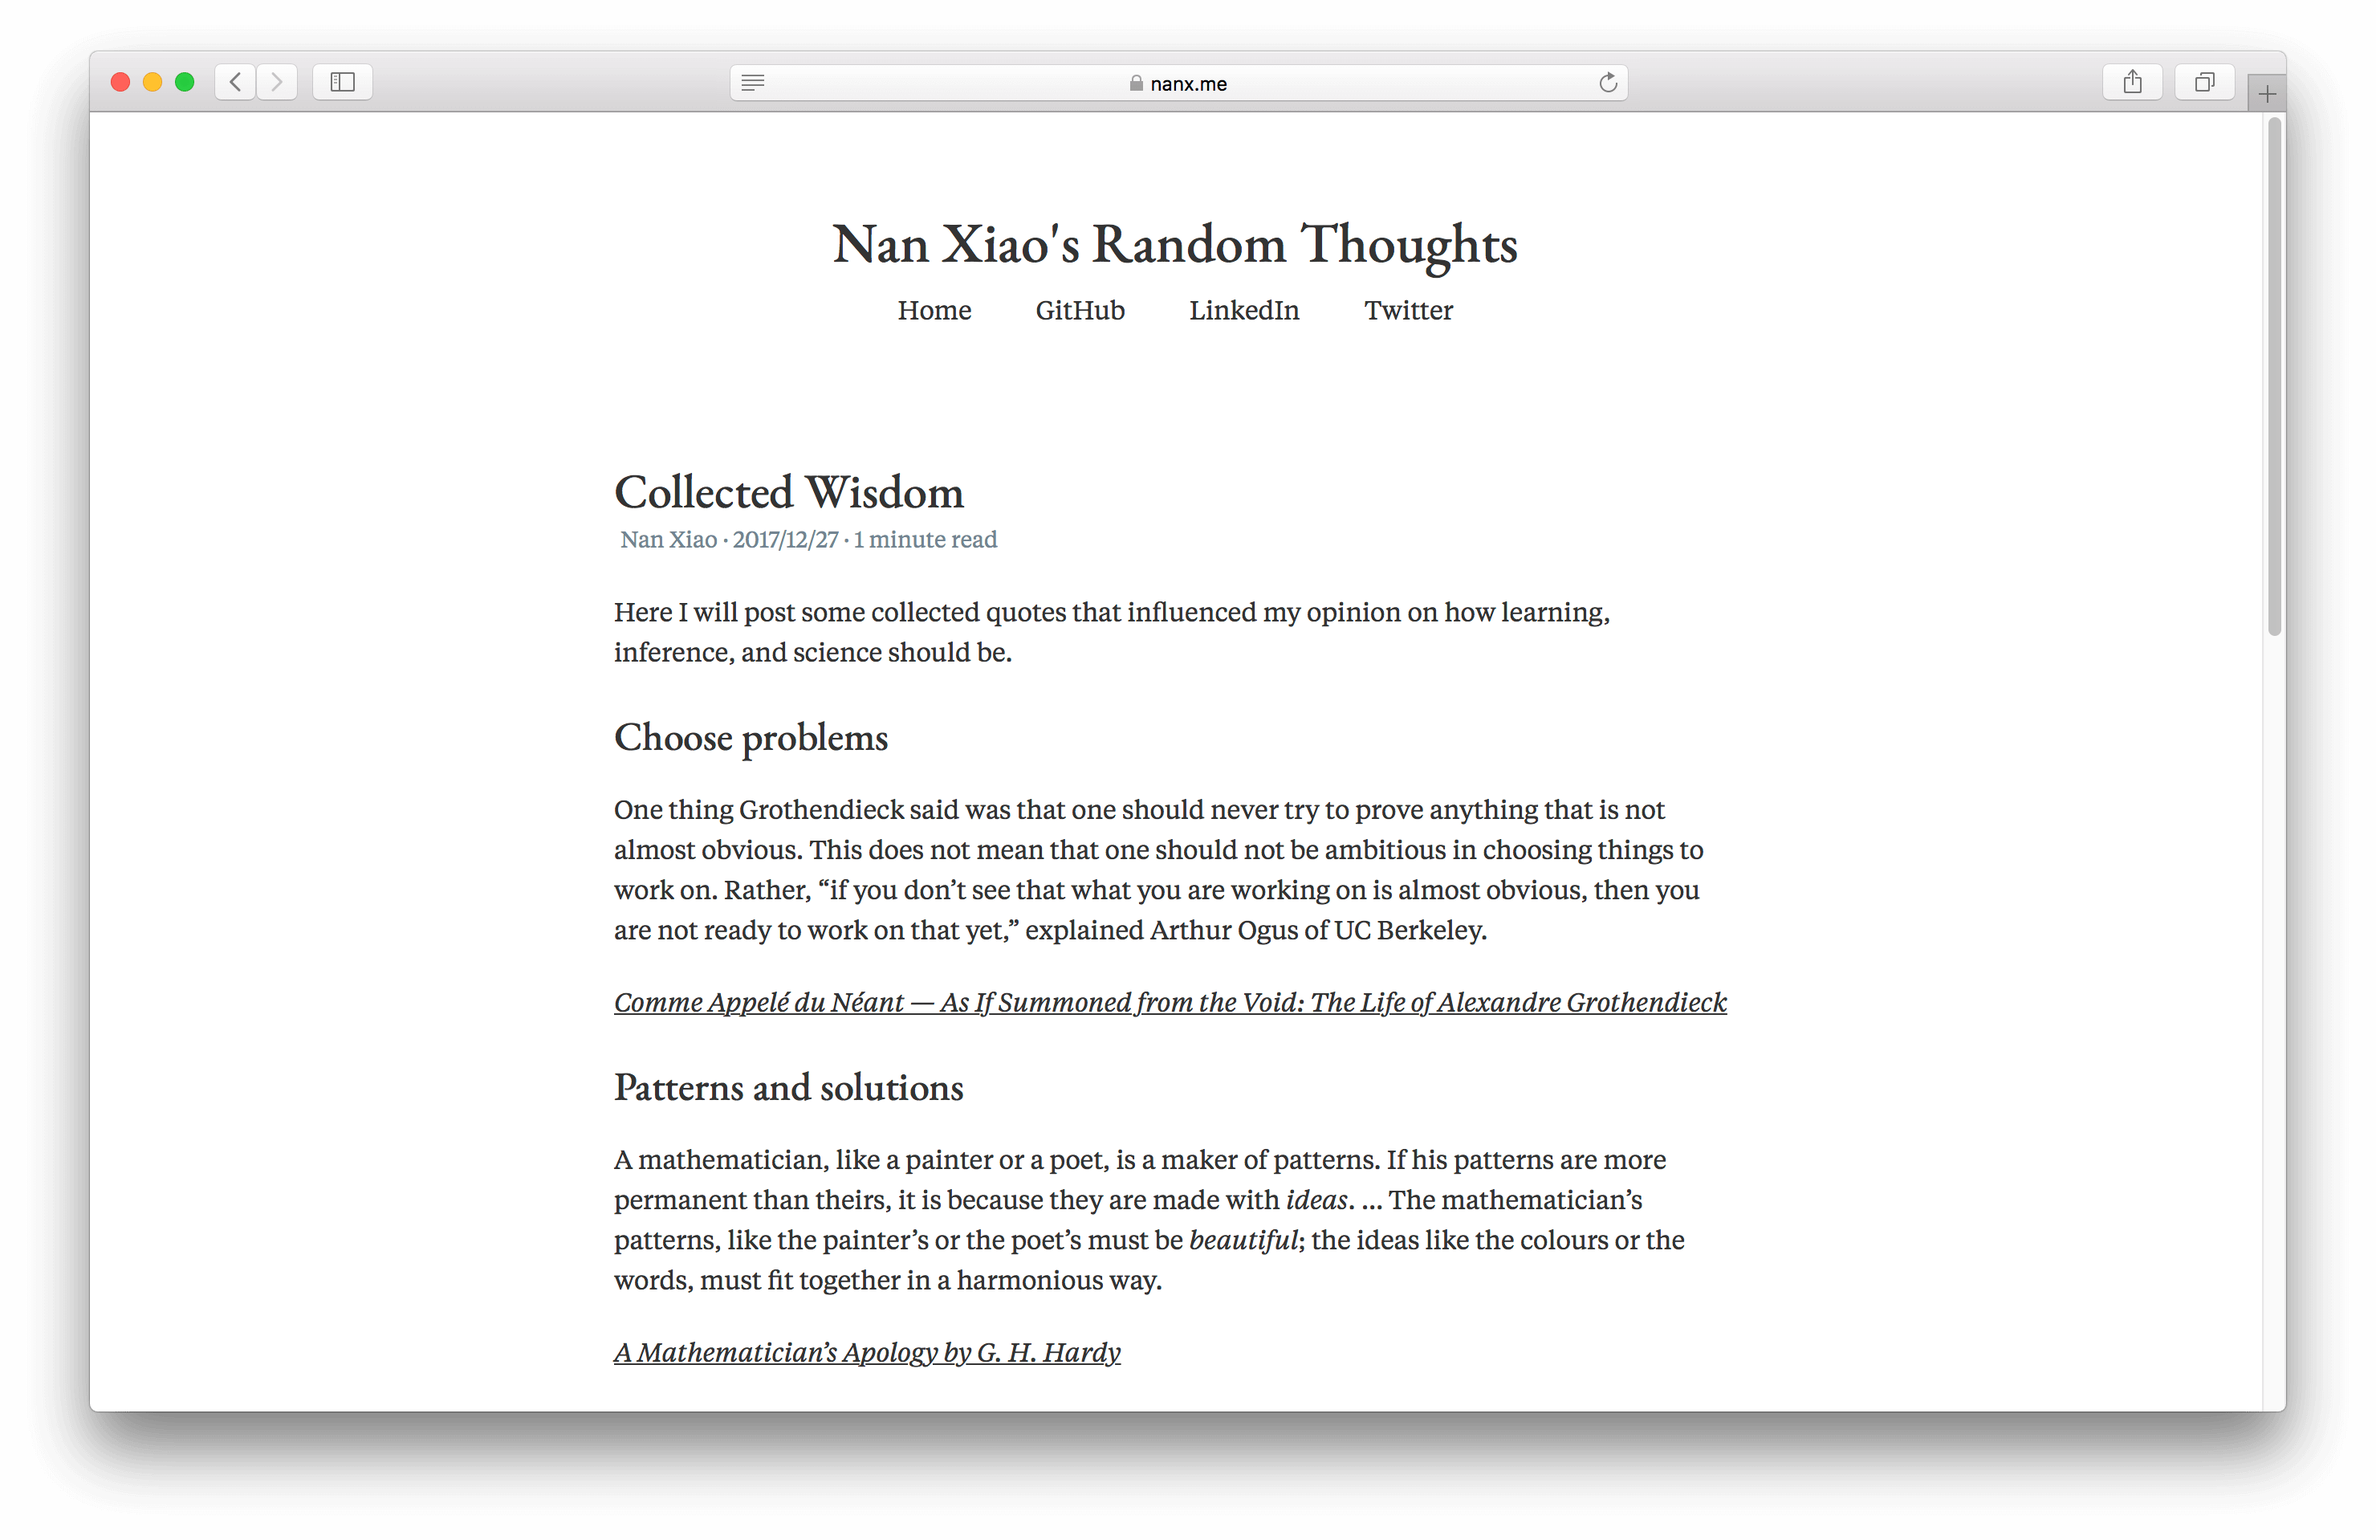
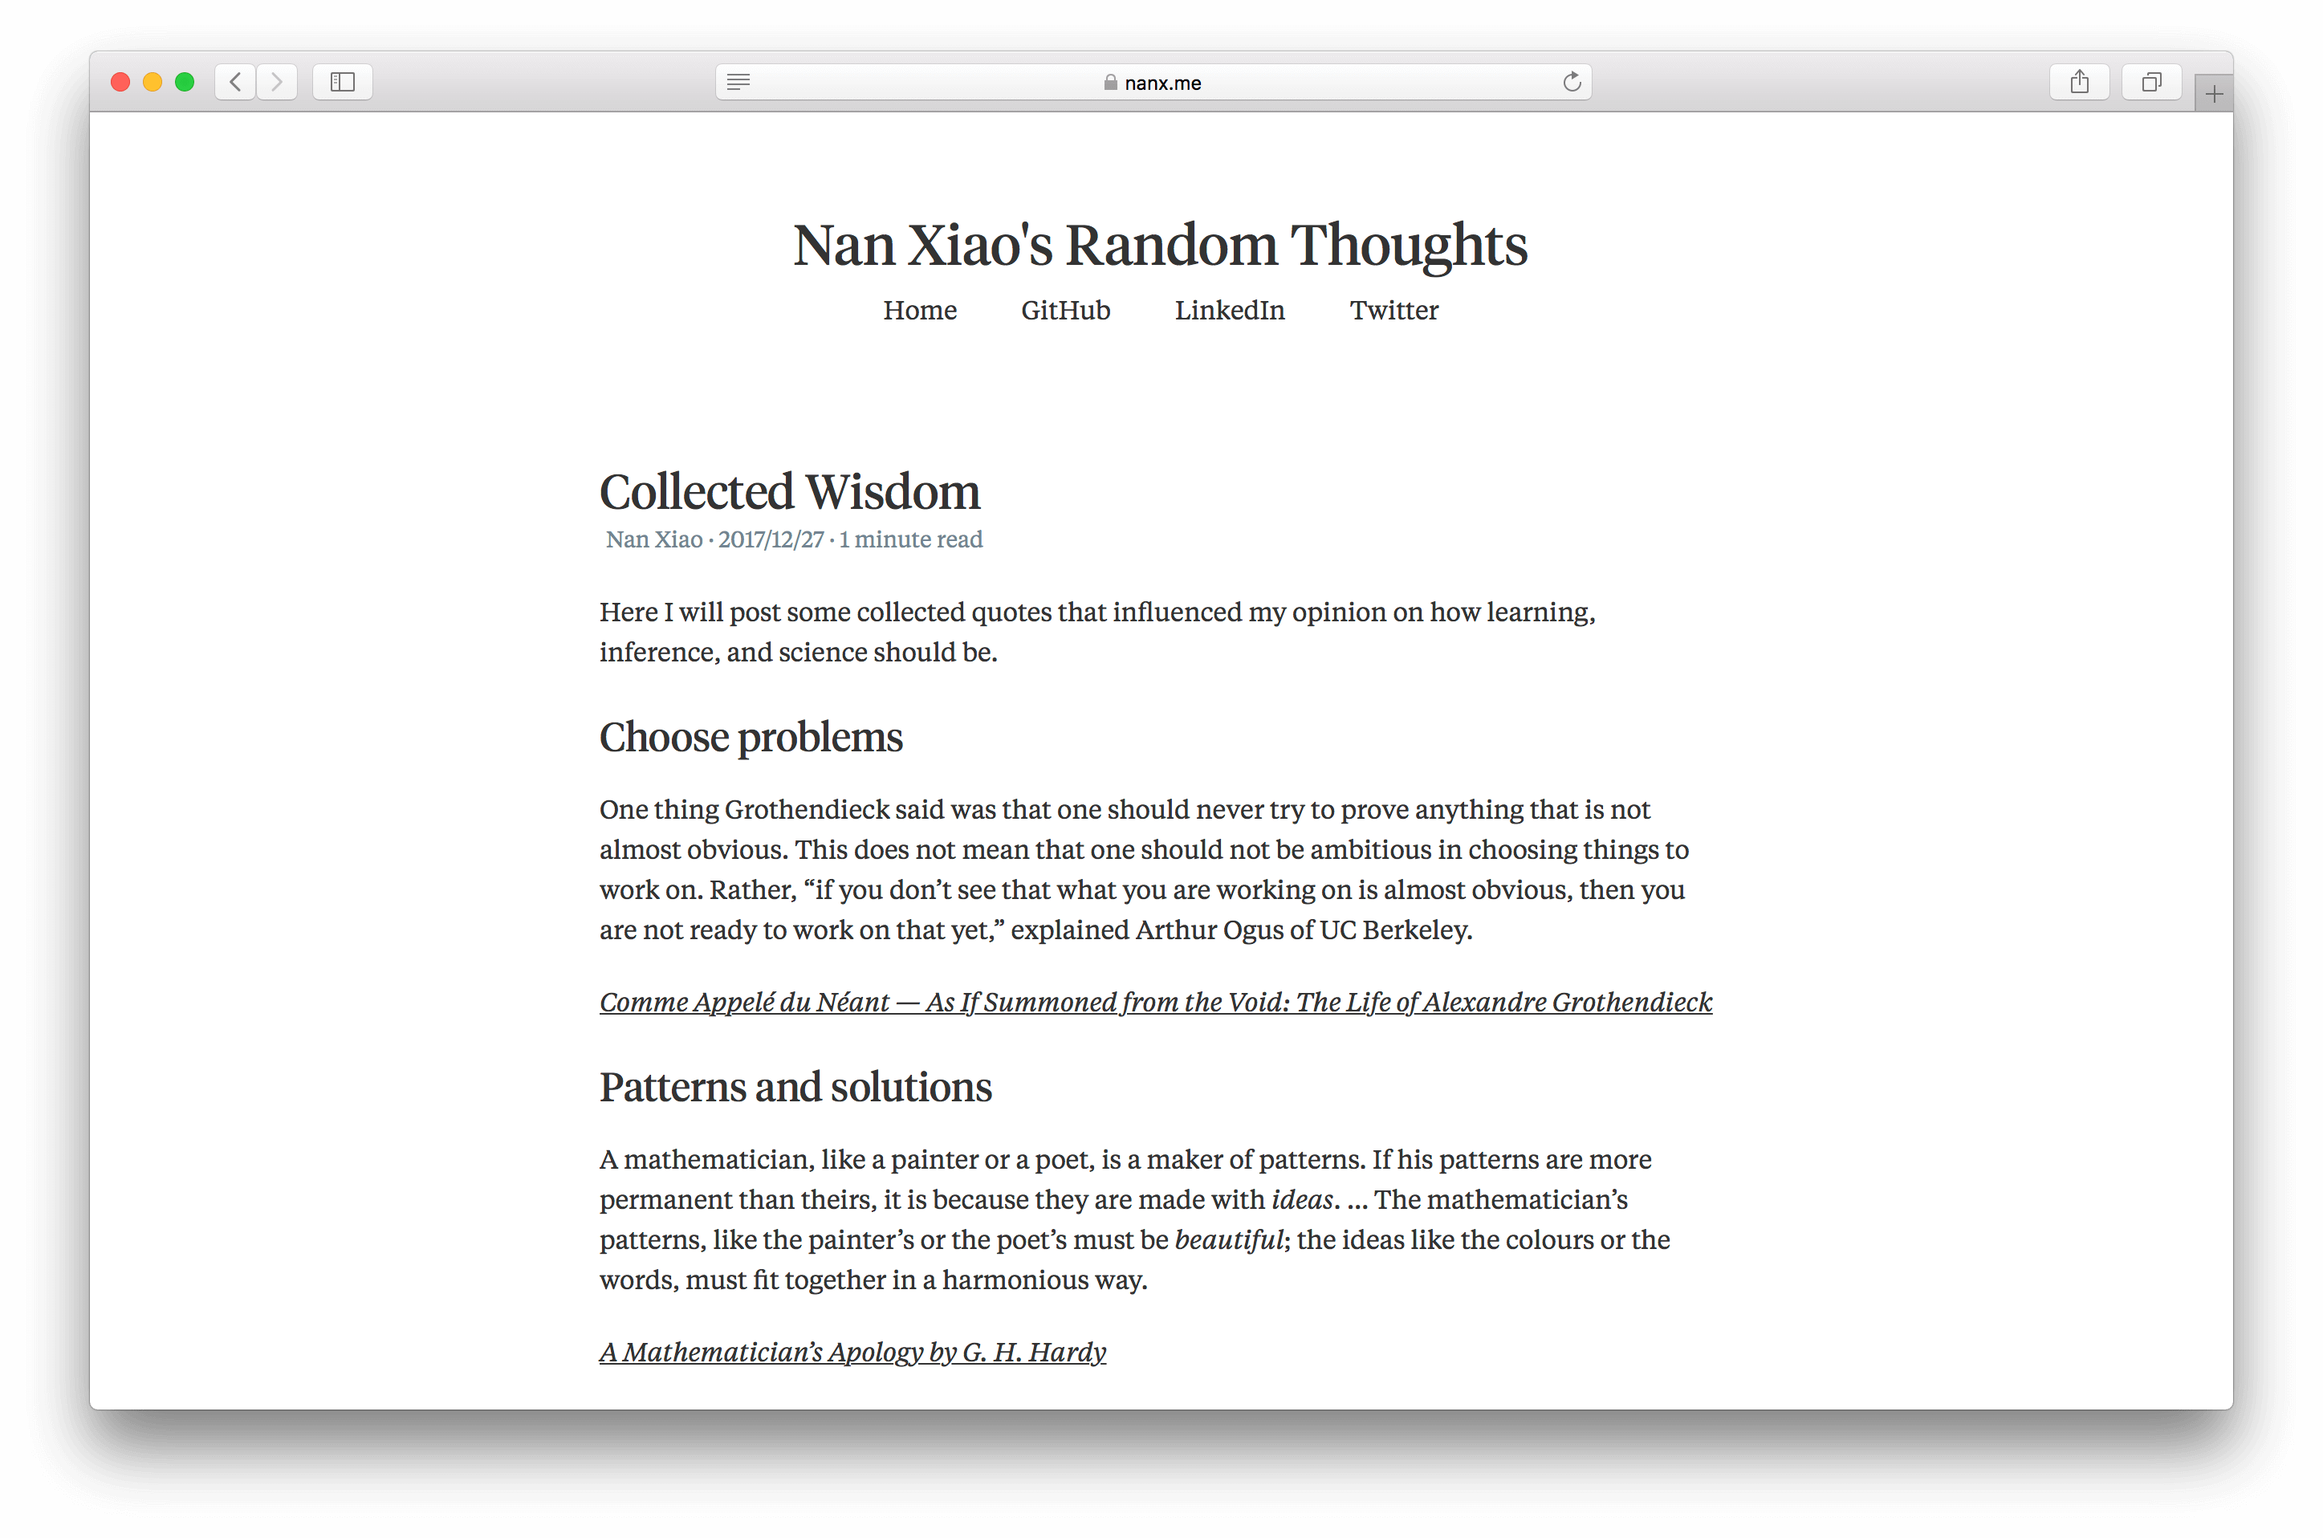
title font

diff --git a/layouts/partials/styles.html b/layouts/partials/styles.html
@@ -11,7 +11,7 @@
   }
 
   body {
-    font-family: "TiemposText", Georgia, Times, "Times New Roman", "Hiragino Kaku Gothic Pro", "Meiryo", serif;
+    font-family: "TiemposText", Georgia, Times, "Times New Roman", serif;
     font-size: 16px;
     line-height: 160%;
     color: #333;
@@ -93,15 +93,15 @@
   }
 
   .sans,html .gist .gist-file .gist-meta {
-    font-family: "TiemposText", "Myriad Pro", Myriad, sans-serif;
+    font-family: -apple-system, BlinkMacSystemFont, "Segoe UI", Roboto, Oxygen-Sans, Ubuntu, Cantarell, "Helvetica Neue", sans-serif;
   }
 
   .mono,pre,code,tt,p code,li code {
-    font-family: Menlo, Monaco, "Andale Mono", "lucida console", "Courier New", monospace;
+    font-family: "SFMono-Regular", Consolas, "Liberation Mono", Menlo, Courier, monospace;
   }
 
   .heading,.serif,h1,h2,h3 {
-    font-family: "EB Garamond", serif;
+    font-family: "TiemposHeadline", serif;
   }
 
   strong {
@@ -281,7 +281,7 @@
   }
 
   #not-found a {
-    font-family:"EB Garamond",serif;
+    font-family: "TiemposHeadline", serif;
     font-size: 200px;
     text-decoration: none;
     display: inline-block;

diff --git a/layouts/partials/font_title.html b/layouts/partials/font_title.html
@@ -1,1 +1,10 @@
-<link href="https://fonts.googleapis.com/css?family=EB+Garamond:500" rel="stylesheet">
+<style>
+  @font-face {
+    font-family: "TiemposHeadline";
+    src: url("https://www.bu.edu/cdn/fonts/TiemposHeadline/TiemposHeadline-Regular.eot");
+    src: url("https://www.bu.edu/cdn/fonts/TiemposHeadline/TiemposHeadline-Regular.eot?#iefix") format("embedded-opentype"),
+    url("https://www.bu.edu/cdn/fonts/TiemposHeadline/TiemposHeadline-Regular.woff") format("woff");
+    font-style: normal;
+    font-weight: 400;
+  }
+  </style>
